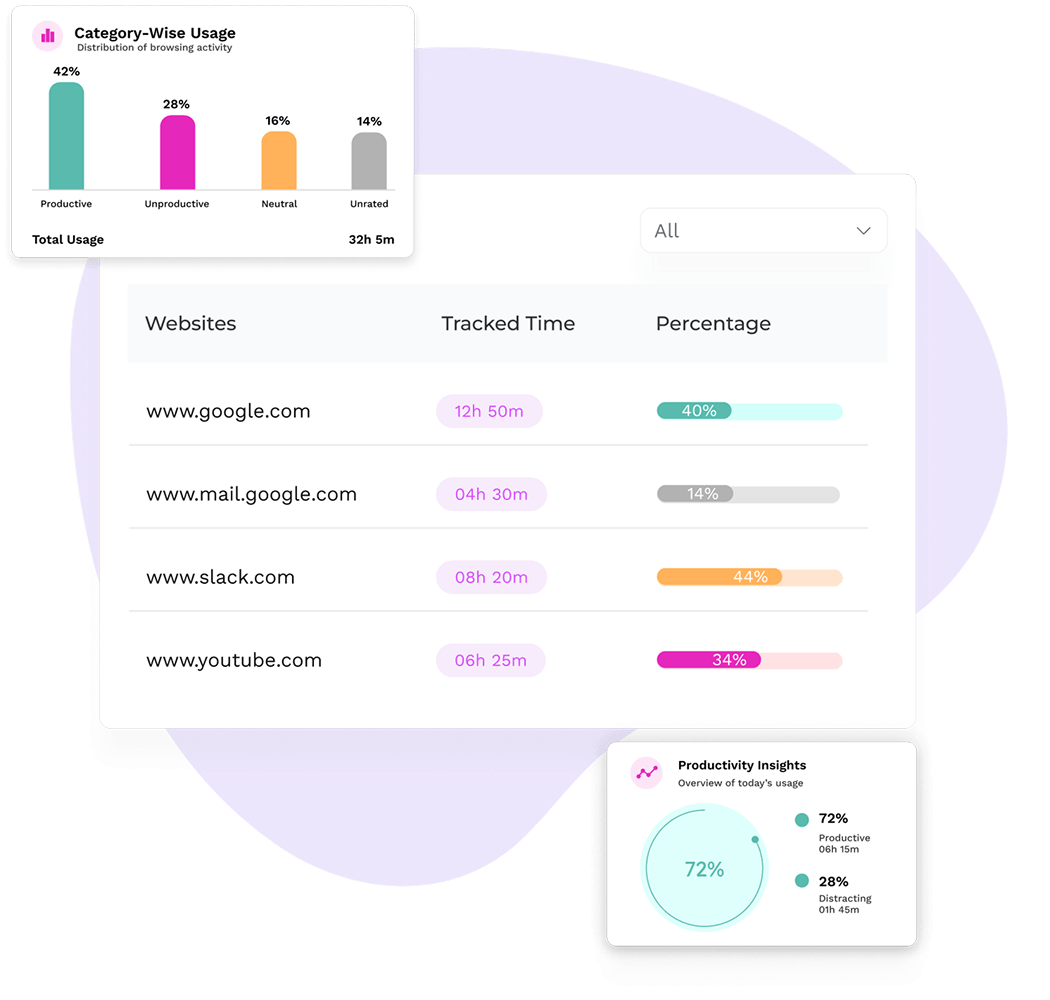
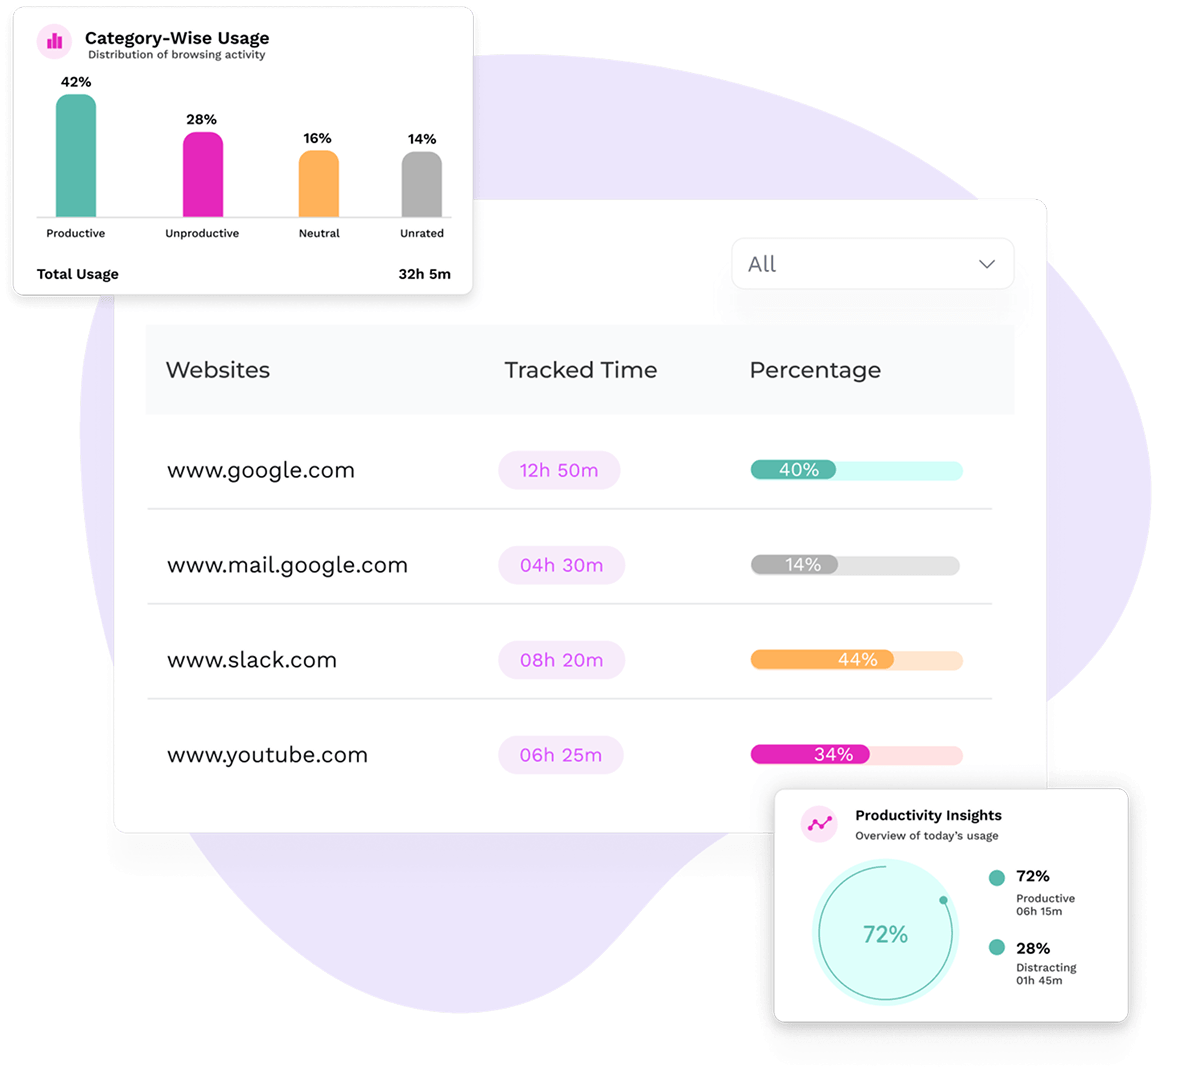
last commit

diff --git a/index/index.html b/index/index.html
@@ -495,22 +495,22 @@
                                         <div class="tb-mega-card-box">
                                             <a href="industries/call-center-time-tracking-software"
                                                 class="submenu-items">
-                                                <img src="../img/landing-tw/archit-icon.svg" alt="Architects" width="24"
+                                                <img src="../img/landing-tw/call-center-icon.svg" alt="call" width="24"
                                                     height="24" />
                                                 <div class="card-right">
                                                     <span>Call Center Time Tracking Software</span>
-                                                    <p>Power-Packed Call Center Time Tracking Software</p>
+                                                    <p>Improve workforce visibility across fast-paced operations</p>
                                                 </div>
                                             </a>
                                         </div>
                                         <div class="tb-mega-card-box">
                                             <a href="industries/time-tracking-software-for-cleaning-companies"
                                                 class="submenu-items">
-                                                <img src="../img/landing-tw/archit-icon.svg" alt="Architects" width="24"
+                                                <img src="../img/landing-tw/cleaning-companies-icon.svg" alt="cleaning" width="24"
                                                     height="24" />
                                                 <div class="card-right">
-                                                    <span>time tracking software for cleaning companies</span>
-                                                    <p>Specialized Time Tracking for Cleaning Companies</p>
+                                                    <span>Cleaning Company Time Tracking Software</span>
+                                                    <p>Simplify crew timekeeping across every client site</p>
                                                 </div>
                                             </a>
                                         </div>
